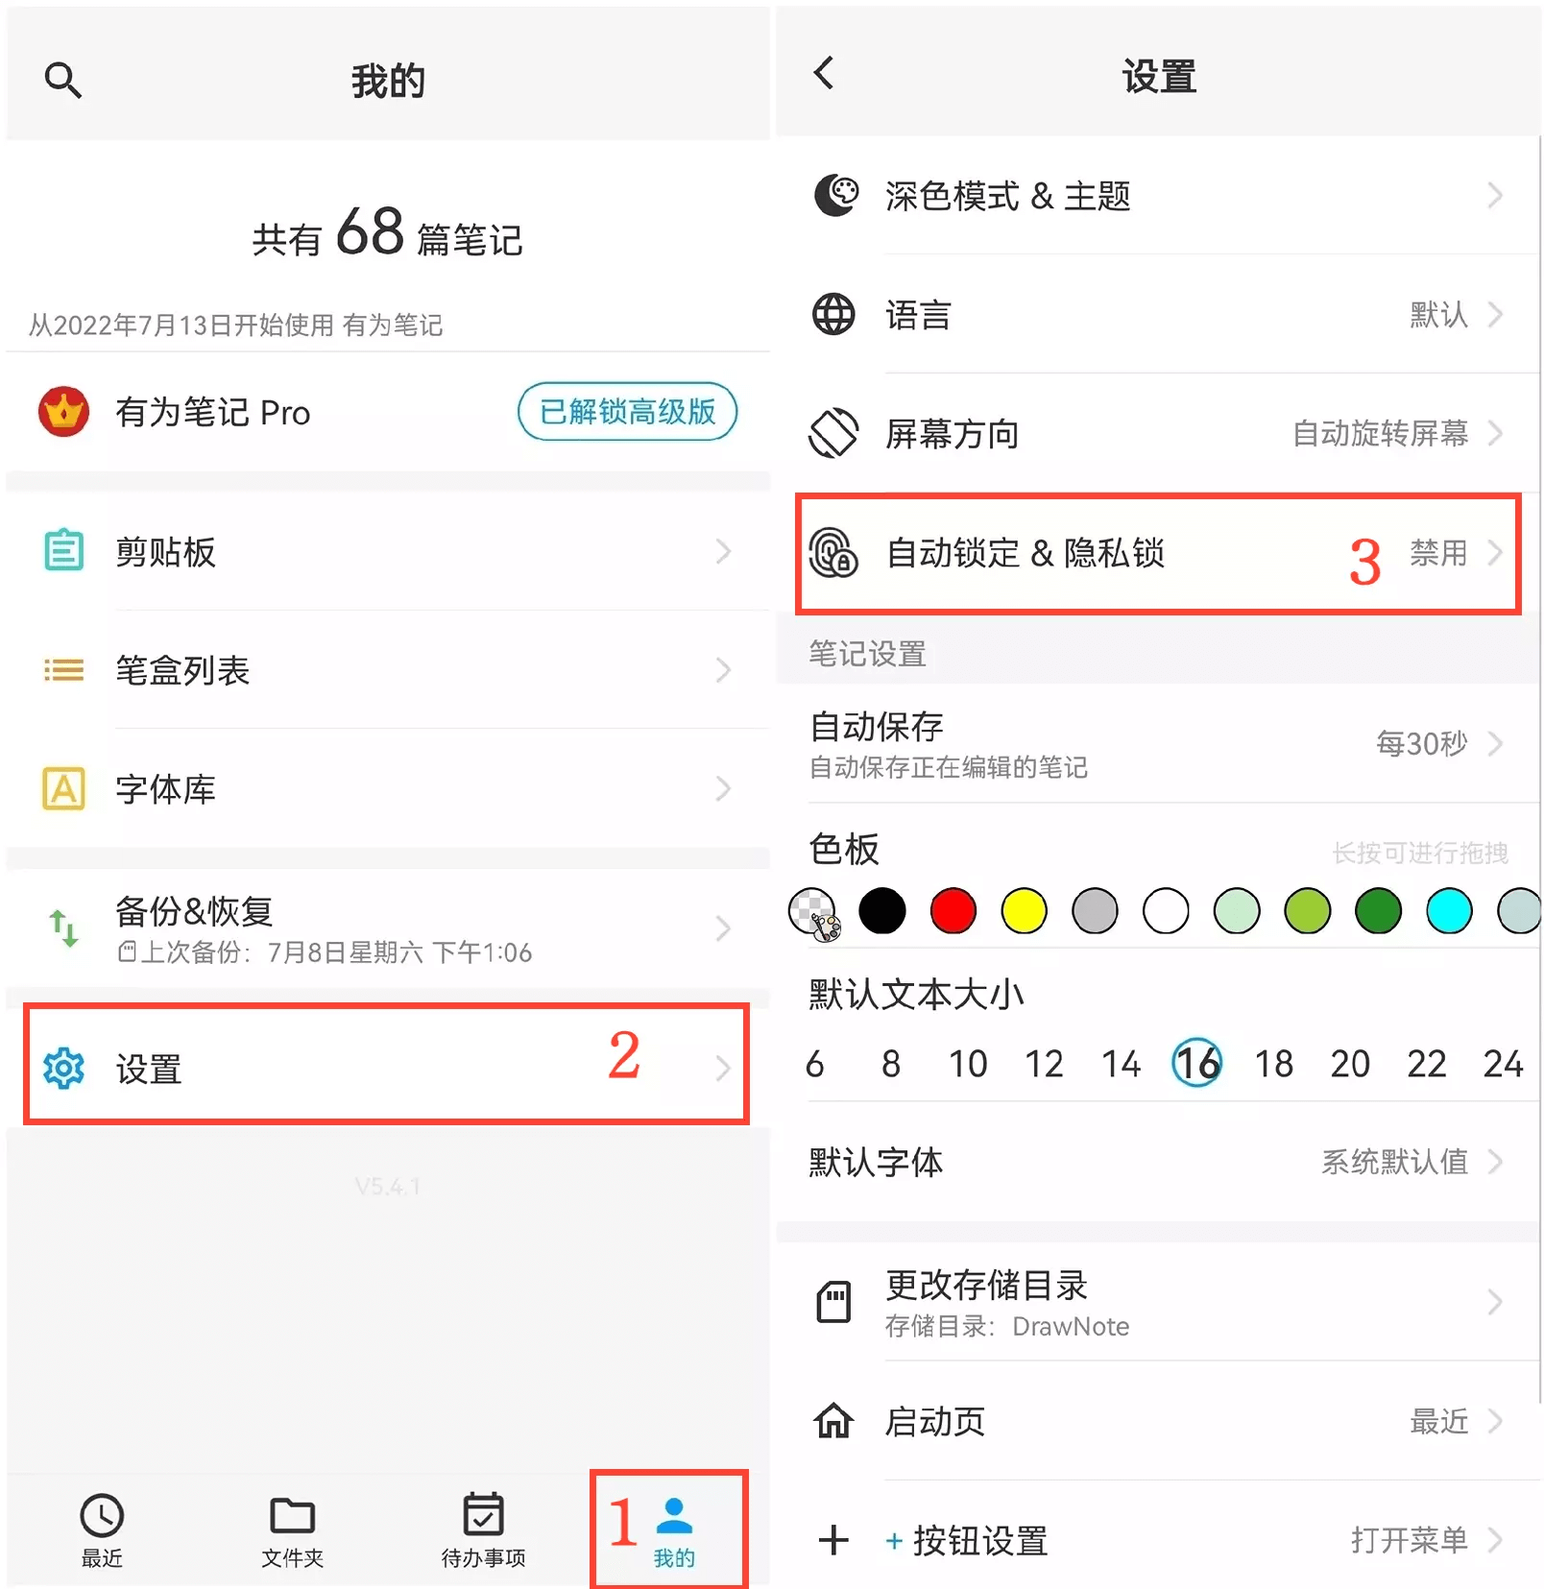
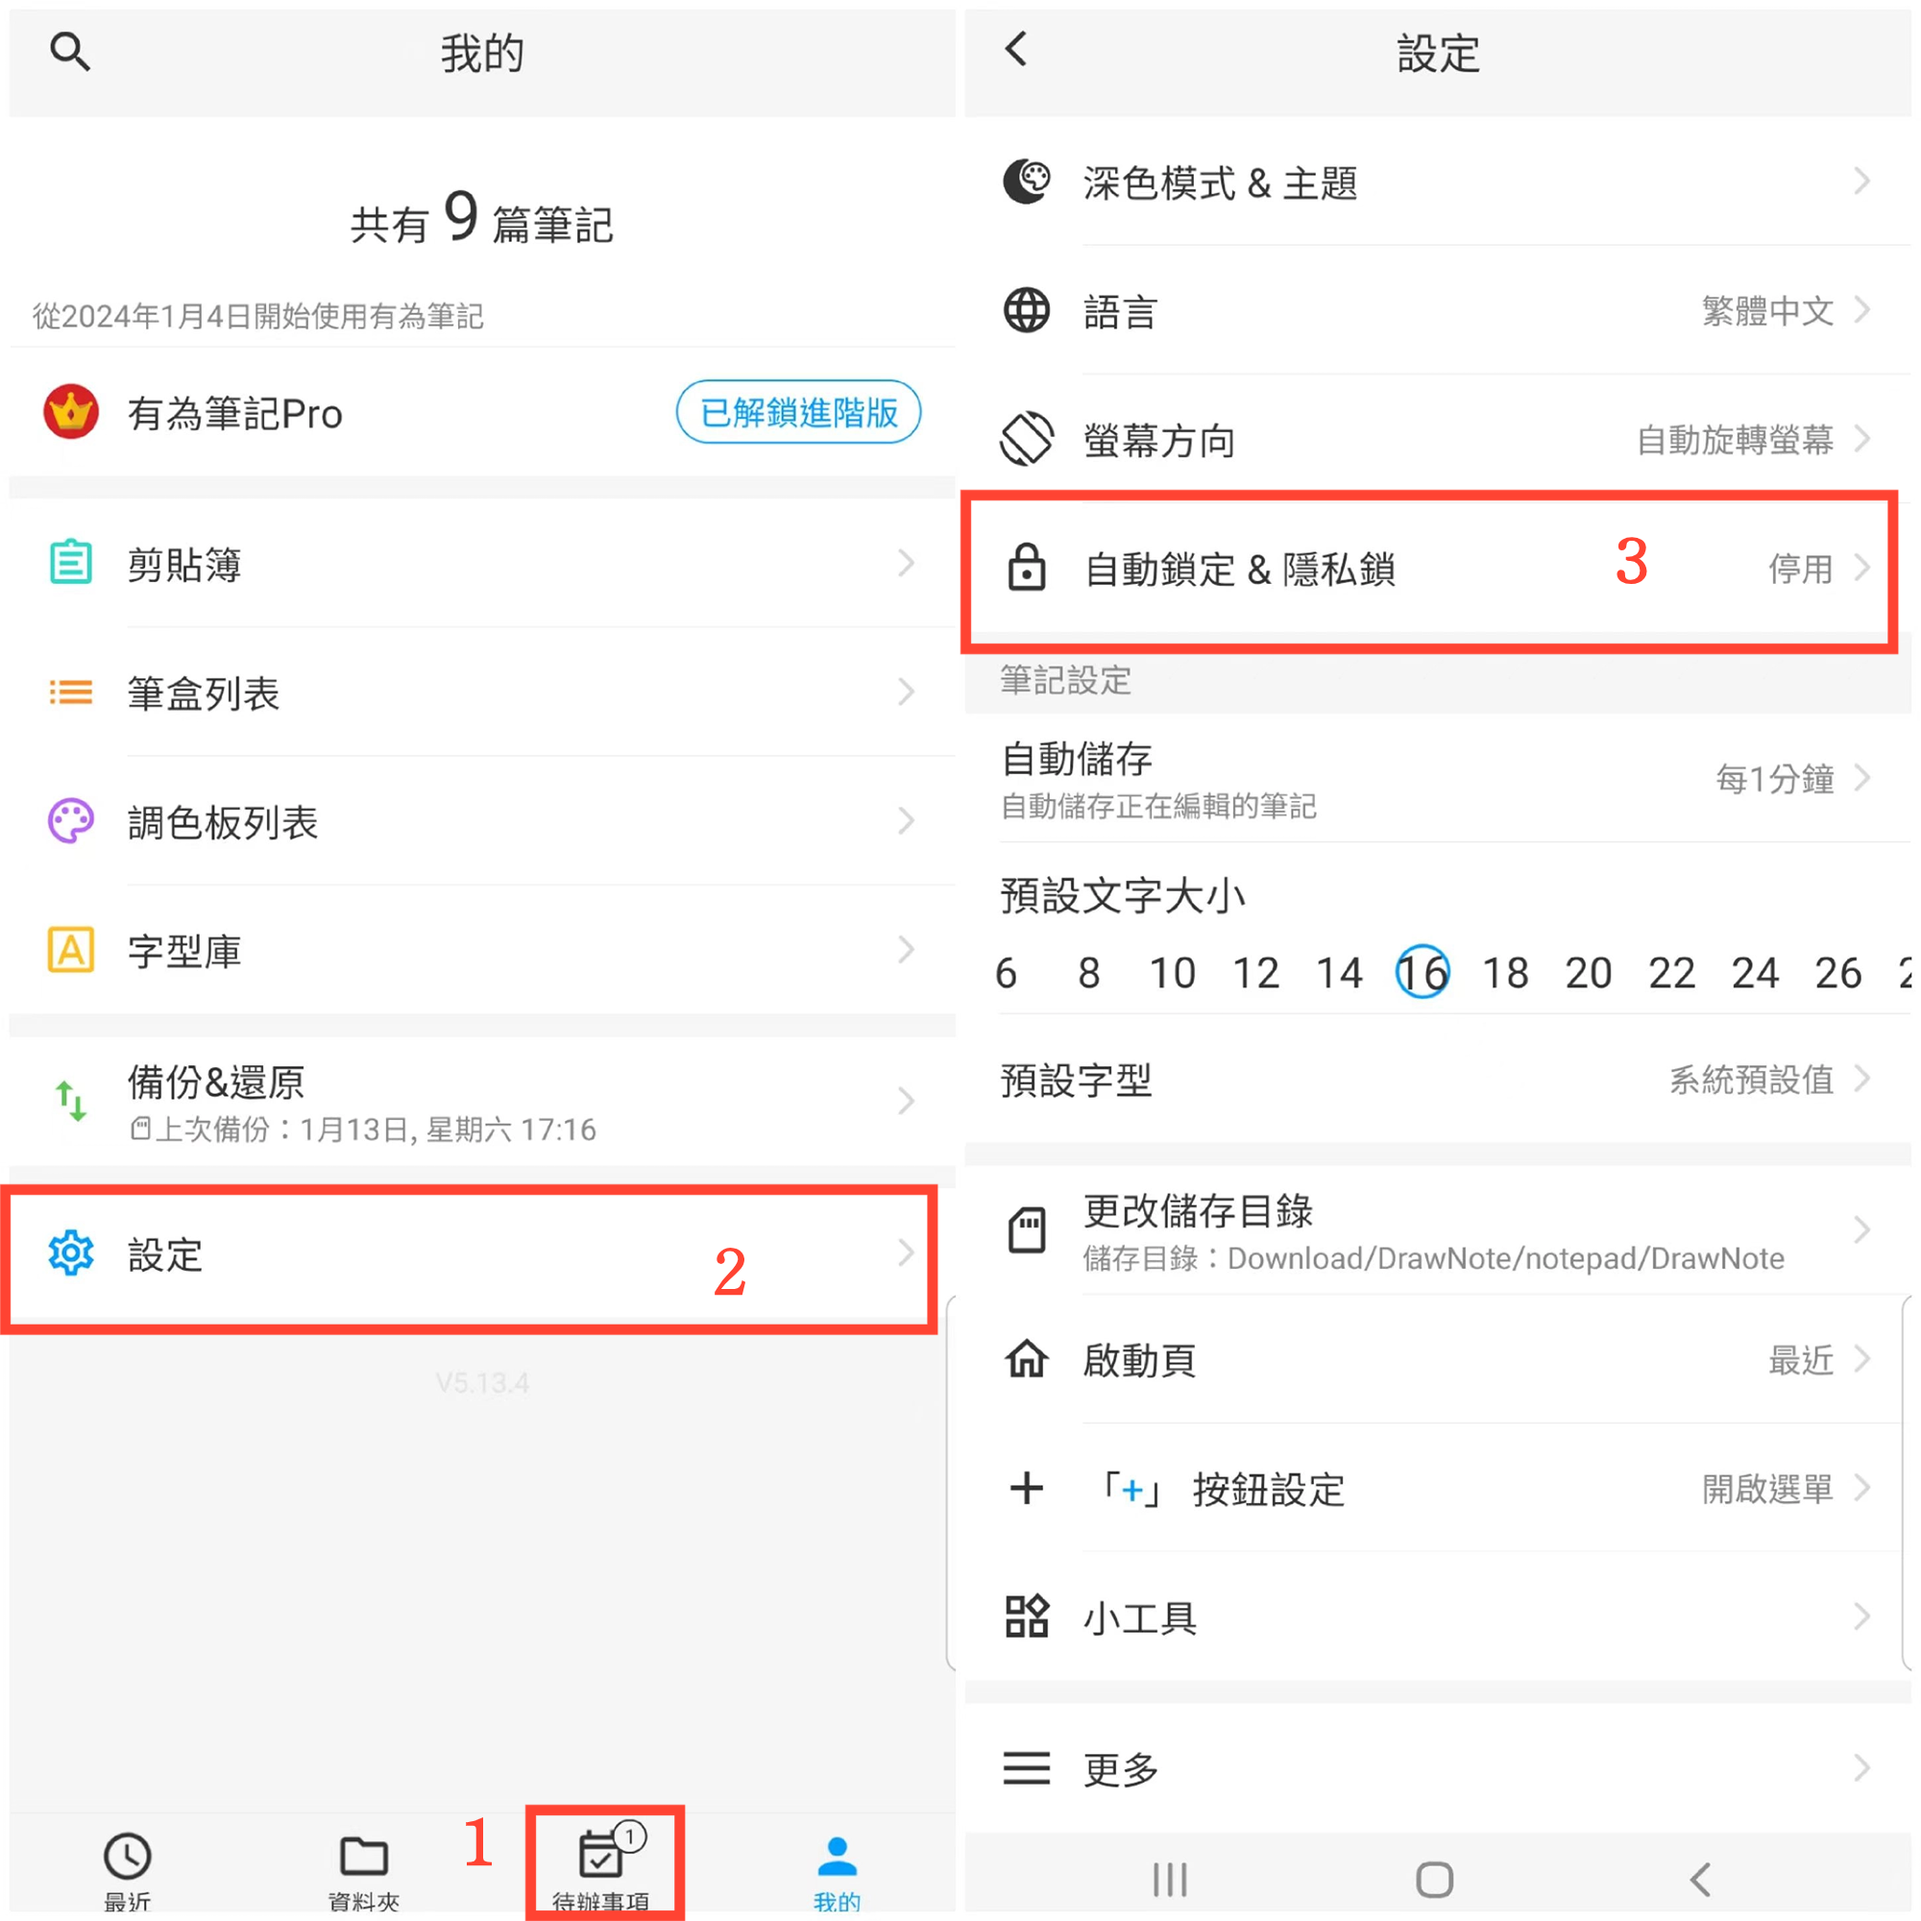
more3

diff --git a/drawnote/manual/zh-tw/more/automatic_locking.md b/drawnote/manual/zh-tw/more/automatic_locking.md
@@ -14,4 +14,4 @@
 4. 開啟"自動鎖定"按鈕，選擇自動鎖定時間。
 
 ![](imgs/automatic_locking1.png)
-![](imgs/automatic_locking2.png)
+![](imgs/automatic_locking3.png)
